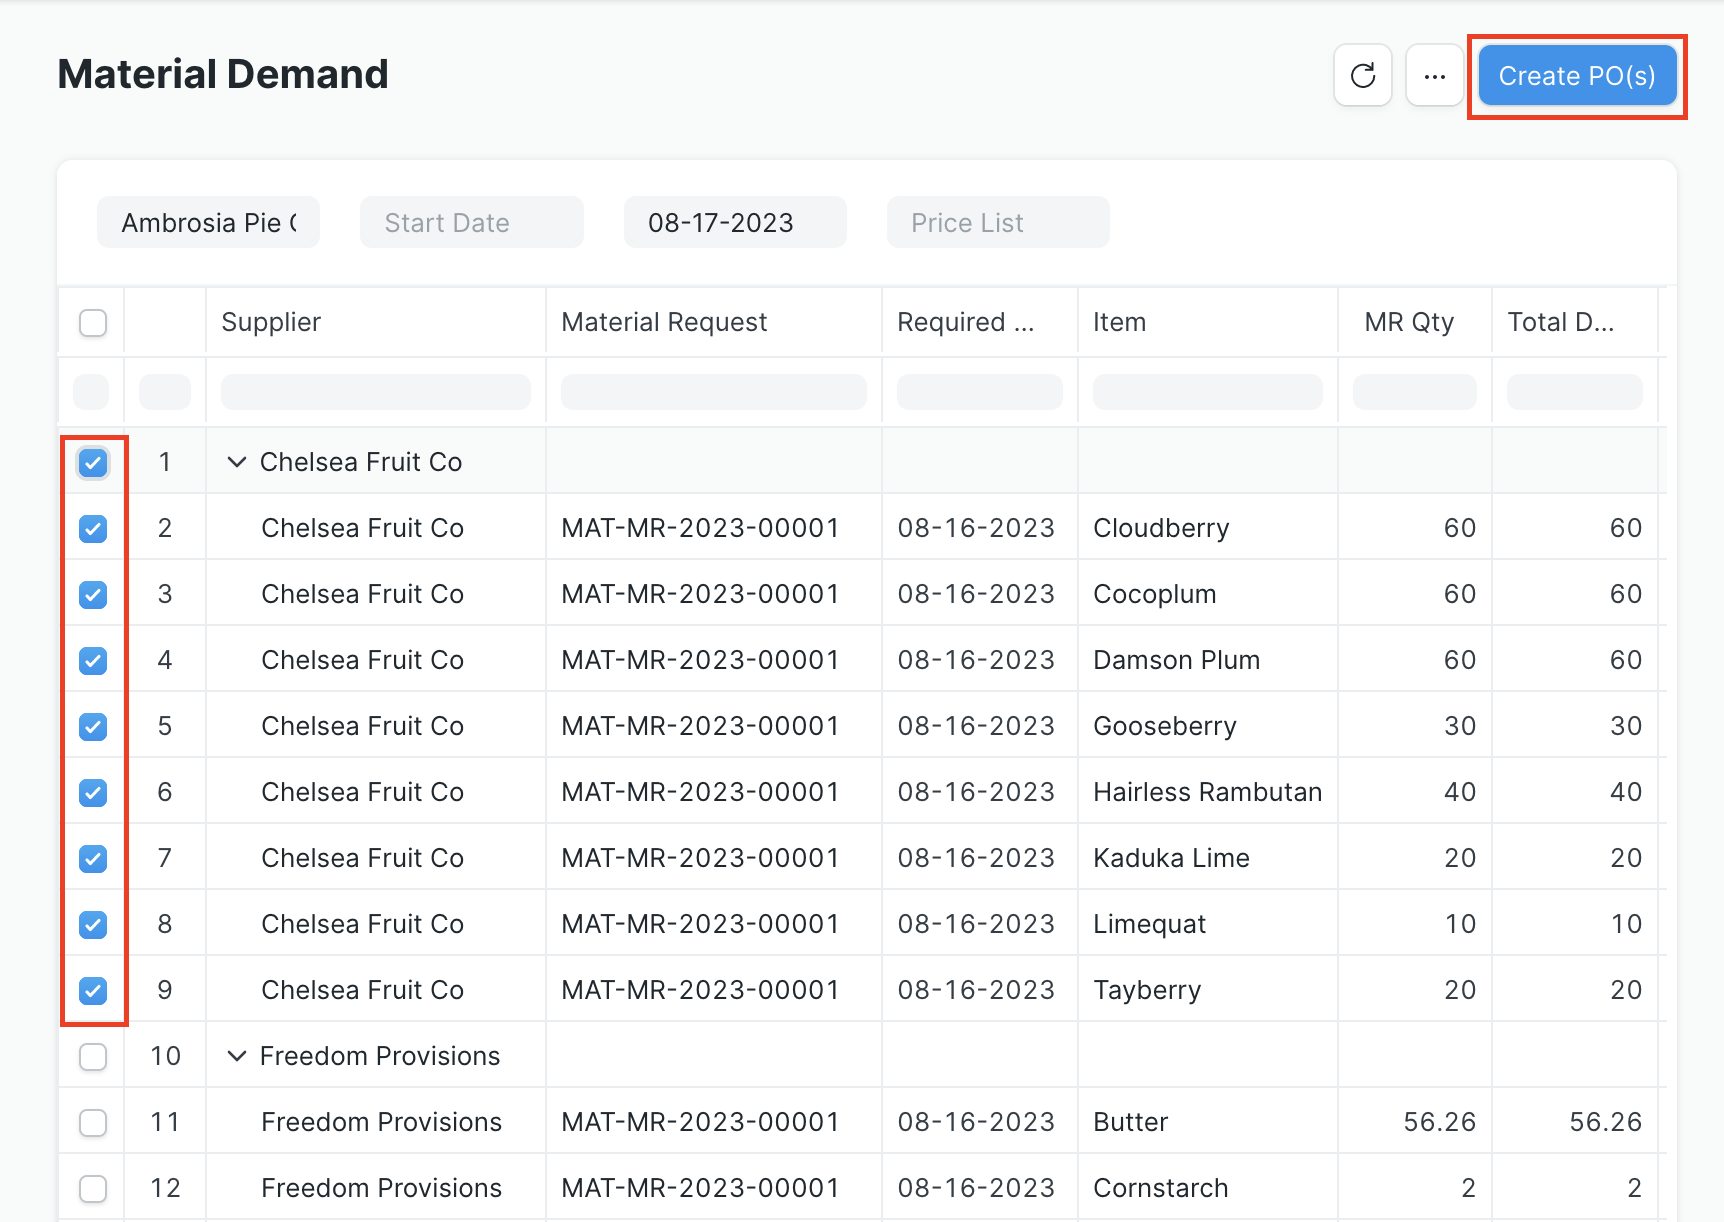
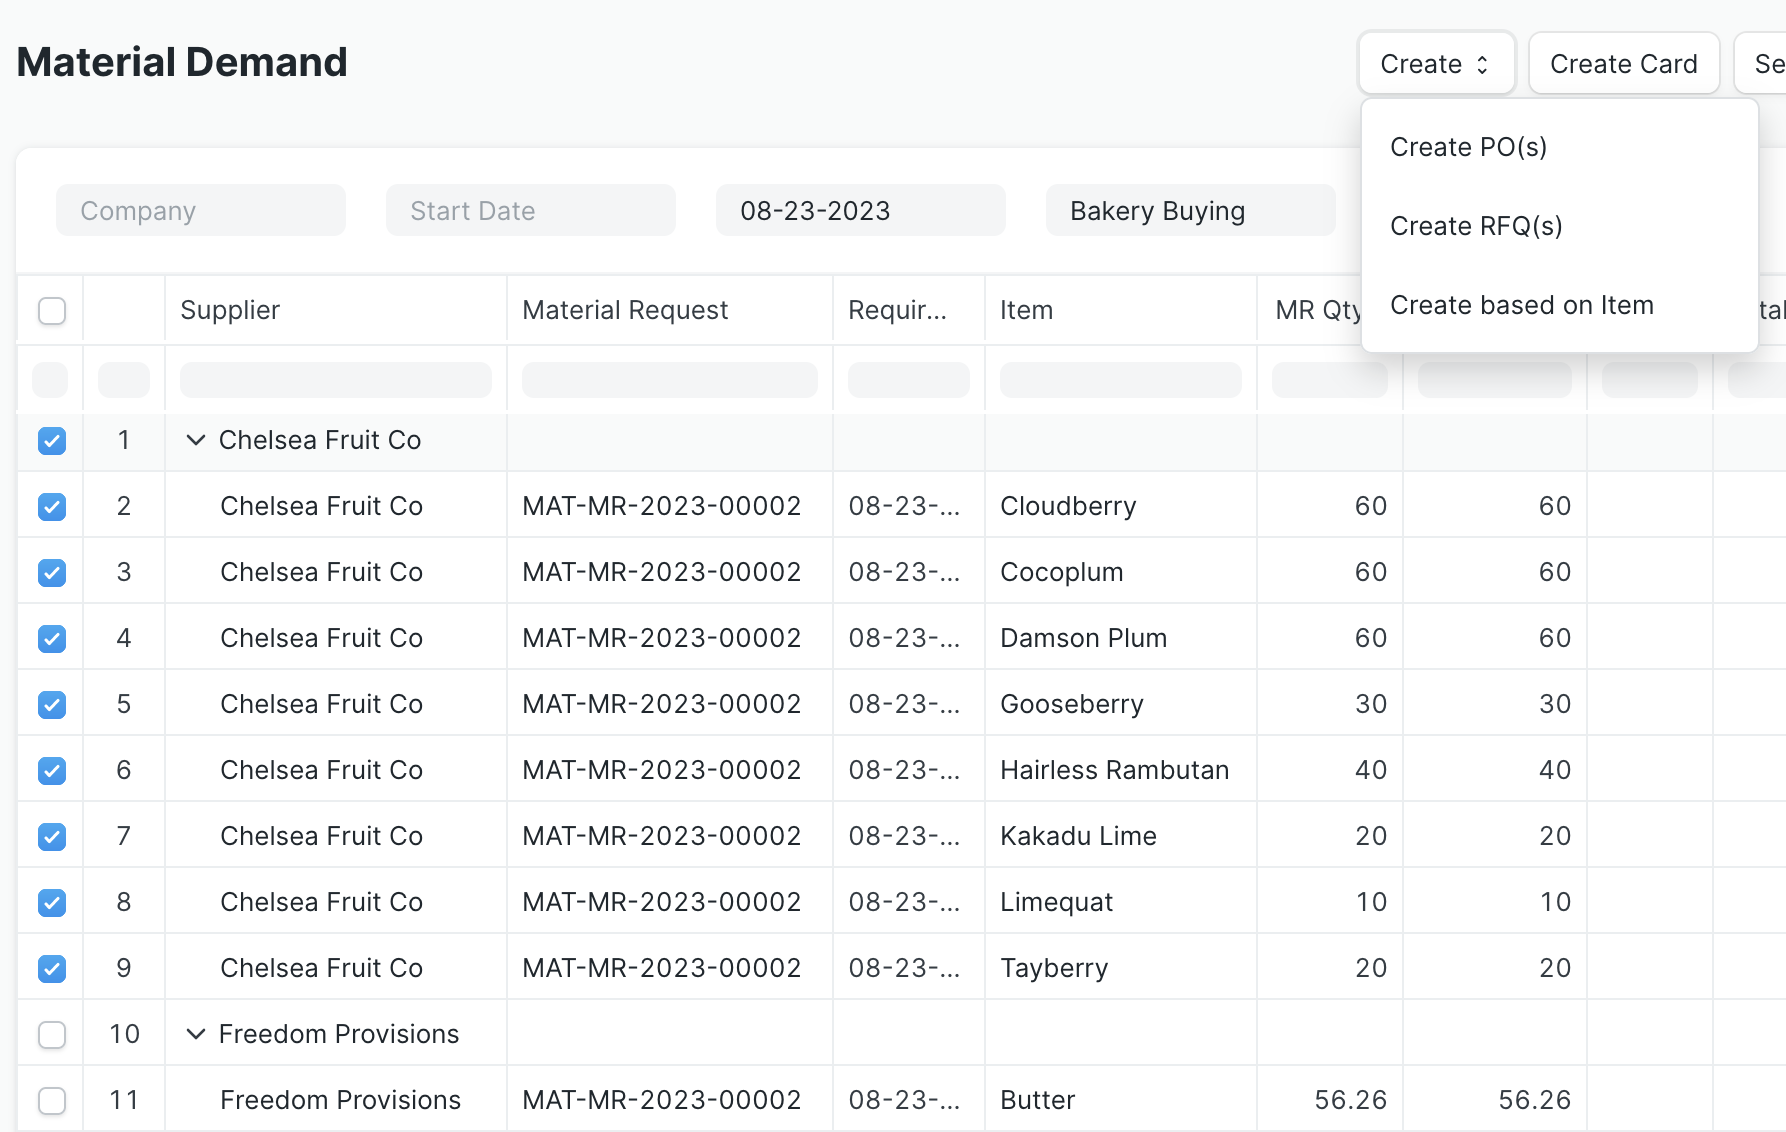
docs: update material demand section for expanded functionality

diff --git a/inventory_tools/docs/material_demand.md b/inventory_tools/docs/material_demand.md
@@ -1,20 +1,65 @@
 # Material Demand
 
-Material Demand is a report-based interface that allows a user to aggregate required Items across multiple Material Requests, Suppliers, and requesting Companies, then create draft Purchase Orders in that process.
+Material Demand is a report-based interface that allows you to aggregate required Items across multiple Material Requests, Suppliers, and requesting Companies. From there, you can create draft Purchase Orders (PO), draft Request for Quotations (RFQ), or a combination of the two based on the Item's configuration.
 
 ![Screen shot of the Material Demand report showing rows of Items grouped by supplier with columns for the Supplier, Material Request document ID, Required By date, Item, MR Qty, Draft POs, Total Selected, UOM, Price, and Selected Amount](./assets/md_report_view.png)
 
-The right-hand side of the report has selection boxes to indicate which rows of Items to include to create Purchase Orders. Ticking the top-level supplier box will automatically check all the Items for that supplier. 
+The right-hand side of the report has selection boxes to indicate which rows of Items to include to create the documents. Ticking the top-level supplier box will automatically check all the Items for that supplier. 
 
 ![Screen shot of a Material Demand Report with the boxes next to supplier Chelsea Fruit Co's Items all checked](./assets/md_selection.png)
 
-Once you're satisfied with your selections, clicking the Create PO(s) button will generate draft a Purchase Order for each supplier selected. If there is more than one company requesting materials from the same supplier, the PO is marked as a Multi-Company Purchase Order. All generated Purchase Orders remain in draft status to allow you to make edits as needed before submitting them.
+Once you're satisfied with your selections, clicking the Create button will give you three options to generate draft documents:
+
+1. Create PO(s) will create a Purchase Order for each supplier selected. If there is more than one company requesting materials from the same supplier, it marks the PO as a Multi-Company Purchase Order
+2. Create RFQ(s) will create a Request for Quotation for each supplier-item combination
+3. Create based on Item will create RFQs and/or POs depending on how the Item's supplier list is configured (in the Item master)
+
+All generated documents remain in draft status to allow you to make edits as needed before submitting them.
+
+### Create Purchase Orders
+If you select the Create PO(s) option, a dialog window will appear to select the Company if it hasn't already been supplied in the filter section.
+
+![Screen shot of the dialog window to enter the Company for the Purchase Orders](./assets/md_po_dialog.png)
+
+You can find the new documents in the Purchase Order listview.
 
 ![Screen shot of the Purchase Order listview showing the new draft Purchase Order for Chelsea Fruit Co](./assets/md_purchase_order.png)
 
 After generating the draft Purchase Orders, the Material Demand report updates to display the quantity ordered in the Draft PO column. Note that after you submit the Purchase Orders, the Items rows no longer show in the report.
 
 ![Screen shot of the Material Demand report where the Draft POs column shows the quantity ordered for the Chelsea Fruit Co Items that were selected to be in the Purchase Order](./assets/md_draft_po_qty.png)
+
+### Create Request for Quotation
+![Screen shot of Material Demand report with Parchment Paper, Pie Box, and Pie Tin Items selected for both the Freedom Provisions and Unity Bakery Supply suppliers. The Create RFQ(s) selection is highlighted in the Create button dropdown](./assets/md_create_rfq.png)
+
+If you select the Create RFQ(s) option, a dialog window will appear to select the Company and Email Template.
+
+![Screen shot of the dialog window to enter the Company and Email Template for the RFQs](./assets/md_rfq_dialog.png)
+
+You can find the new documents in the Request for Quotation listview and make edits as needed before submitting them.
+
+![Screen shot of a Request for Quotation document with two suppliers (Freedom Provisions and Unity Bakery Supply) and Parchment Paper, Pie Box, and Pie Tin listed in the Items table](./assets/md_rfq.png)
+
+### Create Based on Item
+The final option Create based on Item will create Purchase Orders and/or RFQs depending on how each Item's supplier list is configured in the Item master.
+
+For a given Item, go to the Supplier Items table (found in the Purchasing tab's Supplier Details section) and click Edit for a Suppler. If you check the Requires RFQ? box, the Material Demand report will create an RFQ for that Item. If the box is left unchecked, the report generates a Purchase Order.
+
+![Screen shot of the Edit Supplier form for the Supplier Items table for the Pie Tin Item. The Supplier Freedom Provisions has the Requires RFQ? box selected](./assets/md_supplier_item_rfq.png)
+
+The selection process works the same as the other options.
+
+![Screen shot of the Material Demand report with Pie Tin, Salt, and Sugar Items selected for the Freedom Provisions Supplier and the Create based on Item option highlighted in the Create button dropdown](./assets/md_based_on_item.png)
+
+The report displays a banner to notify you of how many of each document were created.
+
+![Screen shot of a banner that says 1 Purchase Orders created 1 Request For Quotation created](./assets/md_item_based_banner.png)
+
+The Items in each document will correspond to the Item Supplier configuration. Since the Pie Tin Item is the only one that required an RFQ, it's included in the new RFQ, whereas the other Items are in the new Purchase Order.
+
+![Screen shot of the draft RFQ for Freedom Provisions with Pie Tin in the Items table](./assets/md_item_based_rfq.png)
+
+![Screen shot of the draft PO for Freedom Provisions with Salt and Sugar in the Items table](./assets/md_item_based_po.png)
 
 ## Configuration
 The Material Demand report is available on installation of the Inventory Tools application, but there are configuration options in Inventory Tools Settings to modify its behavior.
@@ -24,3 +69,5 @@ The Material Demand report is available on installation of the Inventory Tools a
 When the Material Demand report generates Purchase Orders, it fills the PO Company field with the company specified in the filter, or if that's blank, the one provided in the dialog window. To retain this default behavior, leave the Purchase Order Aggregation Company field in Inventory Tools Settings blank. However, if you populate this field, the report will use its value in the Purchase Order's Company field instead. In either case, if there's more than one company requesting materials from the same supplier, the report will select the Multi-Company Purchase Order box for that supplier's PO.
 
 The Aggregated Purchasing Warehouse field has a similar impact on the report's behavior. By default, the field is blank and the Material Demand report applies the warehouses set per Item in the Material Request as the Item's warehouse in the new Purchase Order. If you set a value in this field, the report will instead use the specified warehouse for each Item in the Purchase Order.
+
+See the Create Based on Item section for instructions on how to configure specific Item-Supplier combinations to require an RFQ.

diff --git a/inventory_tools/docs/index.md b/inventory_tools/docs/index.md
@@ -2,7 +2,7 @@
 
 The Inventory Tools application enhances and extends inventory-related functionality and workflows in ERPNext. It includes the following features:
 
-- **[Material Demand](./material_demand.md)**: a report-based interface to aggregate required Items across multiple sources, then optionally create Purchase Orders
+- **[Material Demand](./material_demand.md)**: a report-based interface to aggregate required Items across multiple sources, then optionally create Purchase Orders or Request for Quotations
 - **[UOM Enforcement](./uom_enforcement.md)**: for doctypes that have an Items table or Unit of Measure (UOM) fields, this feature restricts the user's options from arbitrary selections to only UOMs defined in the Item master with a specified conversion factor
 - **[Warehouse Path](./warehouse_path.md)**: for any warehouse selection field, this features helps clearly identify warehouses by creating a warehouse path and adding a human-readable string under the warehouse name in the format "parent warehouse(s)->warehouse"
 - **[Subcontracting Workflow via Work Order](./wo_subcontracting.md)**: an alternative to ERPNext's subcontracting workflow that enables a user to employ Work Orders, subcontracting Purchase Orders, and manufacturing Stock Entries in lieu of Purchase Receipts or Subcontracting Orders/Receipts. Enhancements to the subcontracting Purchase Invoice allow a user to quickly reconcile what Items have been received with what is being invoiced
